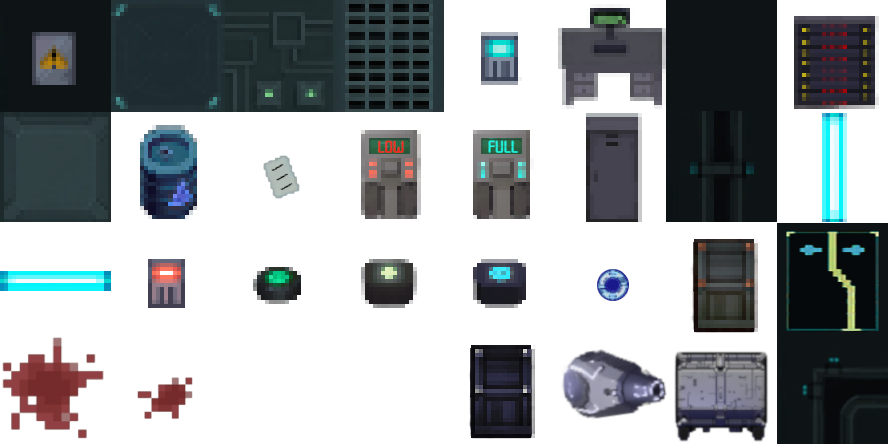
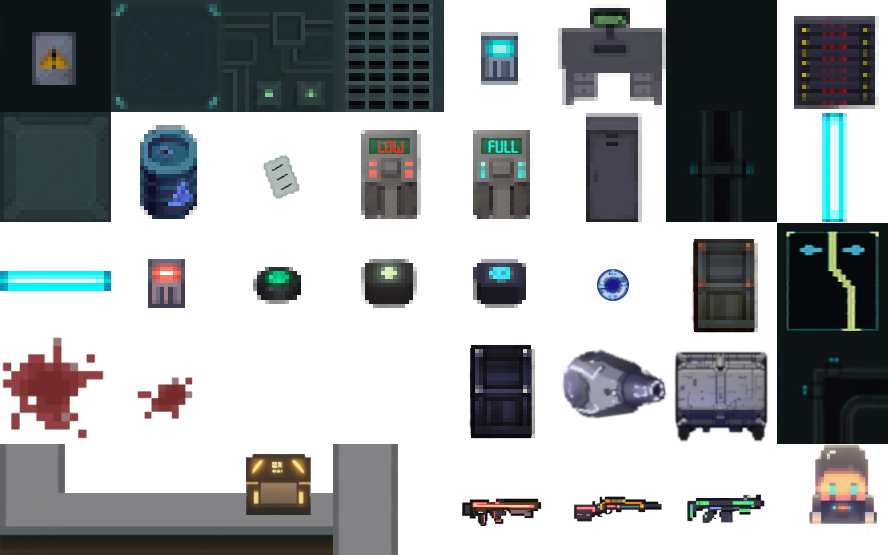
implementacion del LOBBY

diff --git a/assets/maps/Tilemap2.tsx b/assets/maps/Tilemap2.tsx
@@ -1,4 +1,4 @@
 <?xml version="1.0" encoding="UTF-8"?>
-<tileset version="1.10" tiledversion="1.11.2" name="Tilemap2" tilewidth="111" tileheight="111" tilecount="24" columns="8">
- <image source="../blocks/Tilemap2.png" width="888" height="333"/>
+<tileset version="1.10" tiledversion="1.11.2" name="Tilemap2" tilewidth="111" tileheight="111" tilecount="32" columns="8">
+ <image source="../blocks/Tilemap2.png" width="888" height="444"/>
 </tileset>
